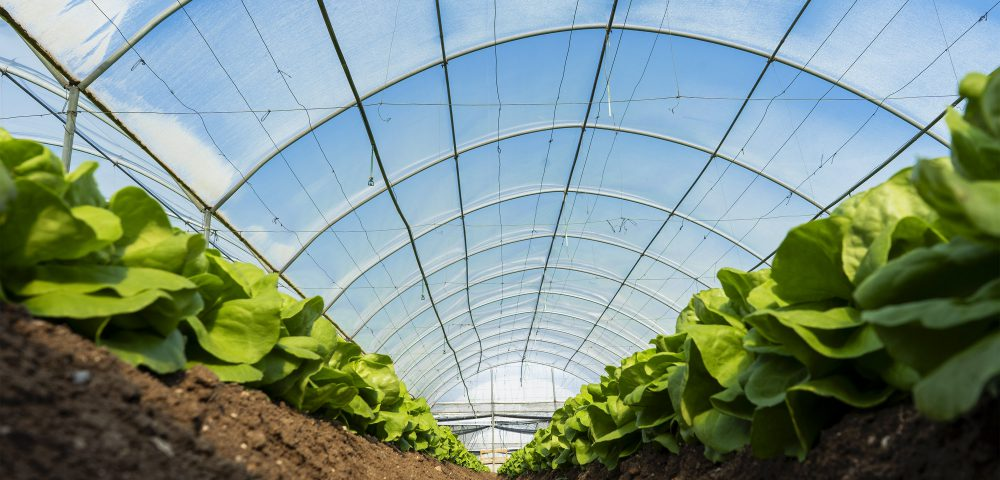
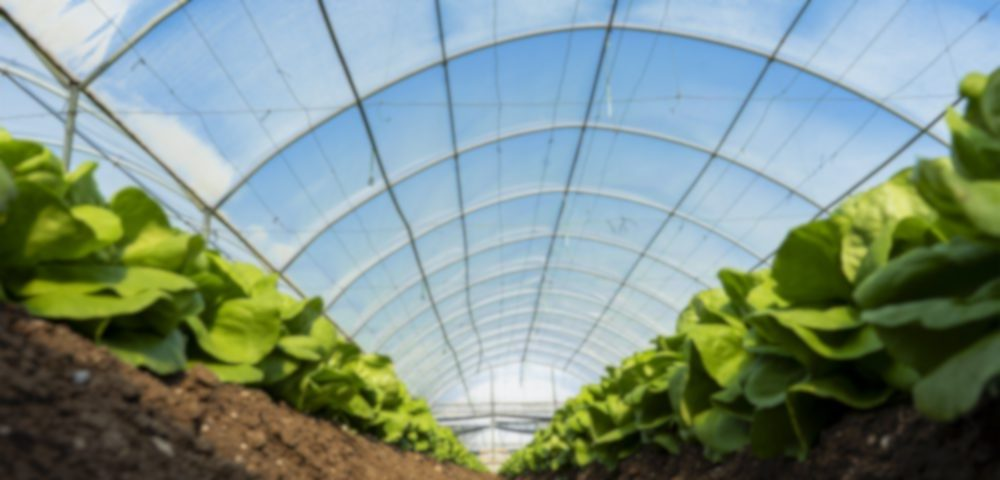
Improved homepage background

diff --git a/WebApp/public/Home.html b/WebApp/public/Home.html
@@ -23,27 +23,45 @@
     <nav class="navbar navbar-expand-xl navbar-dark bg-dark fixed-top" id="menu_uniforme"></nav>
    
 
-<main>
-    <div class="container"> 
-      <h1>Questa è la nostra homePage</h1>
-      <p>cbdbvrv
-        errbebertb
-        erbnetnytmntumtyjertj
-        rtjstrhrtbrtnjy
-        rthrtnyjumkuymrt
-        erhsrthryjrynergweg
-        enymnrt
-      </p>
+    <main>
+      <div class="container"> 
 
-    </div>
-      
+        <h1>Benvenuti nella home page di "iSerra"!</h1>
+        <p>
+          <br>iSerra è un sistema di gestione di coltivazioni di ortaggi/fiori all'aperto o in serra. Possono usufruire di questa WebApp tutti i responsabili (agricoltori) ed i collaboratori di una certa azienda agricola.
+        </p>
+        <p>
+        Tra i servizi forniti alle due tipologie di utenti, gli agricoltori potranno rispettivamente aggiungere nuove serre/campi, visualizzare il relativo stato e pianificare gli orari e/o le condizioni di attivazione degli attuatori.<br>
+        Mentre, ai collaboratori sarà invece concesso visualizzare l'elenco delle serre/campi relativi alla azienda agricola in cui lavorano e monitorare lo stato delle serre/campi.<br>
+        Infine, le funzioni rese disponibili ad entrambi gli utenti previsiti saranno attivare/disattivare/ripristinare gli attuatori e visualizzare un elenco relativo alle misure registrate.<br>
+        </p>
+        <div id="carouselExampleInterval" class="carousel slide" data-bs-ride="carousel">
+          <div class="carousel-inner">
+            <div class="carousel-item active" data-bs-interval="10000">
+              <img src="images/serra-ortaggi.jpeg" class="d-block w-100" alt="...">
+            </div>
+            <div class="carousel-item" data-bs-interval="2000">
+              <img src="images/termoigrometro-terra-Andrea-Angilletti.jpg" class="d-block w-100" alt="...">
+            </div>
+            <div class="carousel-item">
+              <img src="images/sensori-per-serre.jpg" class="d-block w-100" alt="...">
+            </div>
+          </div>
+          <button class="carousel-control-prev" type="button" data-bs-target="#carouselExampleInterval" data-bs-slide="prev">
+            <span class="carousel-control-prev-icon" aria-hidden="true"></span>
+            <span class="visually-hidden">Previous</span>
+          </button>
+          <button class="carousel-control-next" type="button" data-bs-target="#carouselExampleInterval" data-bs-slide="next">
+            <span class="carousel-control-next-icon" aria-hidden="true"></span>
+            <span class="visually-hidden">Next</span>
+          </button>
+        </div>
 
-    
+      </div>    
+    </main>
 
-    
+    <br>
 
-    
-</main>
     <!-- Option 1: Bootstrap Bundle with Popper -->
     <script src="https://cdn.jsdelivr.net/npm/bootstrap@5.0.2/dist/js/bootstrap.bundle.min.js" integrity="sha384-MrcW6ZMFYlzcLA8Nl+NtUVF0sA7MsXsP1UyJoMp4YLEuNSfAP+JcXn/tWtIaxVXM" crossorigin="anonymous"></script>
 

diff --git a/WebApp/public/stylesheets/style.css b/WebApp/public/stylesheets/style.css
@@ -1,45 +1,46 @@
-
-
 A:link {color: rgb(255, 0, 0);
   text-decoration: none; 
- font-size: 15px }
+  font-size: 15px }
+
 A:visited { 
-color: rgb(255, 0, 0);
+  color: rgb(255, 0, 0);
   text-decoration: none; font-size: 15px }
+
 A:hover { 
-color: rgb(0, 0, 0);
+  color: rgb(0, 0, 0);
   text-decoration: none; font-size: 20px }
 
-  html,body{ 
-    height: 100%; margin: 0; padding: 0; } 
+html,body{ 
+  height: 100%;
+  margin: 0;
+  padding: 0;}
 
-    
+body {
+  background-image: url(../images/Finagricola_61-1000x480.jpg);
+  background-size: cover;
+  background-repeat: no-repeat;
+  background-attachment: fixed;
+  /* display: block; */
+  /*filter: blur(8px);*/
+  /*webkit-filter: blur(8px);*/} 
 
-    main{
-      margin-top: 130px;
-      text-align: center;
-      width: auto;
-      min-height: 100vh; /* will cover the 100% of viewport */
-       overflow: hidden;
-       display: block;
-       position: relative;
-    }
+main{
+  margin-top: 130px;
+  text-align: center;
+  width: auto;
+  min-height: 100vh; /* will cover the 100% of viewport */
+  overflow: hidden;
+  display: block;
+  position: relative;}
 
+.container{
+  position: relative;
+  inset-block-start: 20%;}
 
-  .container{
-    position: relative;
-    inset-block-start: 20%;
-  }
-
-  
-  .footer {
-    position: absolute;
-    bottom:auto;
-    left:0;
-    width:100%;
-    height: auto;
-    background: black;
-    }
-
-
- 
+.footer {
+  position: absolute;
+  bottom:auto;
+  left:0;
+  width:100%;
+  height: auto;
+  background: black;}

diff --git a/WebApp/gestore_configurazioni.js b/WebApp/gestore_configurazioni.js
@@ -14,7 +14,7 @@ class gestore_configurazioni{
                 throw err;
             }
             else{
-                console.log('Il Database iSerra è stato aperto con successo');
+                //console.log('Il Database iSerra è stato aperto con successo');
             } 
         });
     }

diff --git a/WebApp/gestore_proprieta.js b/WebApp/gestore_proprieta.js
@@ -19,7 +19,7 @@ class gestore_proprieta{
                 throw err;
             }
             else{
-                console.log('Il Database iSerra è stato aperto con successo');
+                //console.log('Il Database iSerra è stato aperto con successo');
             } 
         });
     }

diff --git a/WebApp/gestore_devices.js b/WebApp/gestore_devices.js
@@ -13,7 +13,7 @@ class gestore_devices{
                 throw err;
             }
             else{
-                console.log('Il Database iSerra è stato aperto con successo');
+                //console.log('Il Database iSerra è stato aperto con successo');
             } 
         });
     }

diff --git a/WebApp/gestore_stati.js b/WebApp/gestore_stati.js
@@ -13,7 +13,7 @@ class gestore_stati{
                 throw err;
             }
             else{
-                console.log('Il Database iSerra è stato aperto con successo');
+                //console.log('Il Database iSerra è stato aperto con successo');
             } 
         });
     }
